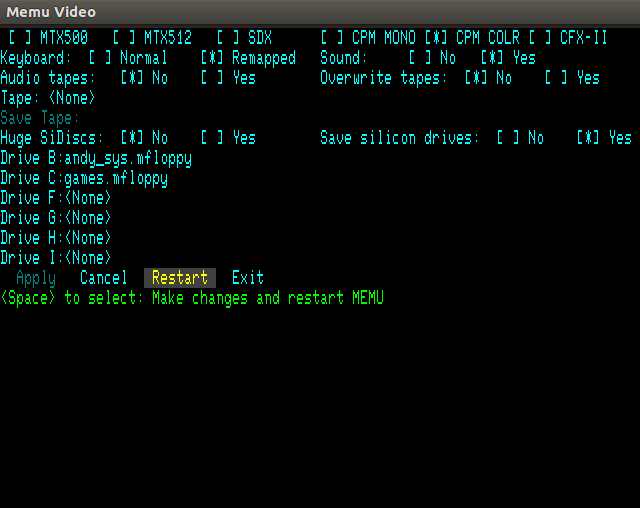
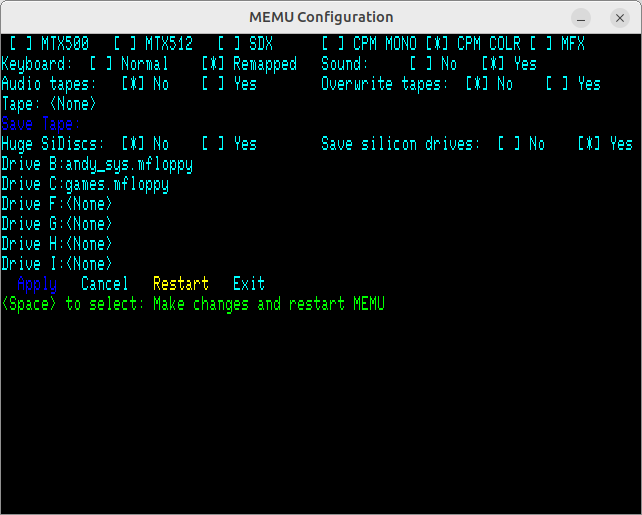
Documentation Updates

diff --git a/docs/index.html b/docs/index.html
@@ -54,14 +54,17 @@
       <li>Raspberry Pi Pico: This has the main features of MEMU, but size constraints
         require omitting some features. Each display is shown full screen.</li>
       <li>Linux X-Window: This uses multiple GUI windows to display Memotech screens and
-        dialogs.</li>
+        dialogs. <span class="todo">(TODO: Produce a version that supports Wayland.)</span></li>
       <li>Linux Framebuffer: This does not require a GUI. Instead each display is shown
         full-screen and it is necessary to toggle between screens.</li>
       <li>Raspberry Pi: Although the Linux versions run perfectly well on Raspberry Pi,
         this version uses the GPU for display updating, and can use the GPIOs to interface
-        to real hardware.</li>
+        to real hardware. <span class="todo">(TODO: The GPU access used is not supported by
+        recent versions of Raspberry Pi OS. Produce an X-Window version with GPIO support.)</span></li>
       <li>Bare Metal Pi: Uses the <a href="https://github.com/rsta2/circle">Circle</a>
-        library to produce versions of MEMU that run bare-metal on a Raspberry Pi.</li>
+        library to produce versions of MEMU that run bare-metal on a Raspberry Pi.
+        <span class="todo">(TODO: This is using an old version of Circle that does not support
+          all Raspberry Pi versions. Update or abandon?)</span></li>
       <li>Microsoft Windows: Does not have DART or Network emulation.</li>
     </ul>
     <p>The full (Linux) version of MEMU provides just about complete emulation of the
@@ -79,11 +82,12 @@
     </ul>
     <p>It provides emulation of some modern hardware add-ons:</p>
     <ul>
-      <li><a href="http://primrosebank.net/computers/mtx/projects/bb80col/bb80col.htm">
-          Enhanced 80-column display</a> using Parallax Propeller chip</li>
+      <li><a href="http://www.primrosebank.net/computers/mtx/projects/mfx/mfx_usage.htm">
+          MFX - Multi-Function eXpansion</a> providing SD card storage, VGA 80-column and
+        VDP display (using an FPGA), ROM BASIC enhancements.</li>
       <li><a href="http://primrosebank.net/computers/mtx/projects/sfx/cfxii.htm">
-          CFX-II</a> providing Compact Flash storage, Propeller 80-column display,
-        ROM BASIC enhancements</li>
+          CFX-II</a> providing Compact Flash storage, Propeller VGA 80-column and VDP display
+        (using Parallax Propeller chip), ROM BASIC enhancements</li>
       <li><a href="http://primrosebank.net/computers/mtx/projects/nfx/nfx.htm">
           NFX</a> network interface based upon a Wiznet W5100 chip</li>
     </ul>
@@ -220,7 +224,7 @@
           <li>If the line &quot;dtoverlay=vc4-kms-v3d&quot; is present, comment it out.</li>
           <li>Insert the line &quot;dtoverlay=vc4-<b>f</b>kms-v3d&quot;
         </ul>
-        <p>TODO - Produce a version which works with the KMS driver.</p>
+        <p class="todo">TODO: Produce a version which works with the KMS driver.</p>
       </li>
       <li><p>The display must be connected to one of the outputs controlled by the VideoCore
           (e.g. HDMI), and the keyboard attached to a USB port. This version will not work
@@ -310,7 +314,7 @@
       <li>The "Applications" or "Menu" key.</li>
       <li>The &lt;F11&gt; key.</li>
     </ul>
-    <img class="centre" src="Config_Screen.png" alt="Configuration Screen">
+    <img class="centre" src="MEMU_Configuration_Dialog.png" alt="Configuration Screen">
     <p>Use the arrow keys to navigate the options and either &lt;space&gt; or &lt;Enter&gt; to
       select an option. The &lt;Esc&gt; key can be used to exit sub-menus.</p>
     <p>The top row of the screen is used to select the basic emulation mode:</p>
@@ -327,9 +331,15 @@
       <dt>CPM COLR</dt>
       <dd>576K RAM, CP/M & ROM BASIC, 40 column VDP display, 80 column colour display,
         Two type07 disk drives, Four Silicon Drives (optional)</dd>
-      <dt>CFX-II (Not Pico)</dt>
+      <dt>MFX</dt>
       <dd>576K RAM, CP/M & ROM BASIC, 40 column VDP display, 80 column VGA display,
-        Two Compact Flash drives (up to 8 partitions each), Four Silicon Drives (optional)</dd>
+        SD Card emulation (up to 8 CPM drive images), Four Silicon Drives (optional).
+        <br/>Note: This does not include emulation of the WizNet network interface on the
+        real MFX card. The windows version of MEMU cannot currently emulate this. While
+        the Linux version can emulate the WizNet, either the program would need to be
+        run as root to be able to open the ports for FTP or HTTP, or the port numbers
+        would need to be re-mapped to high (unprivilaged) values. Command line switches
+        may be ussed to enable this emulation for the Linux version.</dd>
     </dl>
     <p>The body of the screen is used to provide details:</p>
     <dl>
@@ -389,6 +399,8 @@
           <ul>
             <li><a href="http://www.nyangau.org/diskimages/diskimages.htm">Andy Key's
                 disk images</a></li>
+            <li><a href="http://www.primrosebank.net/computers/mtx/projects/mfx/mfx_usage.htm">
+                SD card images for MFX emulation</a> (near bottom of page).</li>
           </ul>
         </li>
       </ul>
@@ -405,8 +417,8 @@
          alt="CP/M Colour Selected, Keyboard: Remapped, Sound: Yes, Files for floppy drives B and C selected">
 
     <h3 id="Usage-DiskImages">Disk Images</h3>
-    <p>MEMU is not able to directly access files stored on the SD card. Instead the files on
-      the SD card are binary copies of the contents of CP/M disks. To access the CP/M files on
+    <p>MEMU is not able to directly access files stored by the operating system. Instead the program reads files
+      that are are binary copies of the contents of CP/M disks. To access the CP/M files on
       a modern PC you need to use a program which understands the CP/M disk format.</p>
     <p>The traditional set of programs for that is <a href="http://www.moria.de/~michael/cpmtools/">cpmtools</a>.
       For most Linux distributions they can be installed using the distribution's package manager.
@@ -420,9 +432,9 @@
       <li><b>memotech-type18</b> - The 8MB format used for silicon disks and modern CF or SD
         storage expansions for the Memotech.</li>
     </ul>
-    <p>Cpmtools are traditional command line utilities. To make the CP/M images more accessible on modern
-      machines, Andy has also developed software whicch enables the CP/M image to be mounted and accessed
-      using standard GUI file managers. These are:</p>
+    <p>Cpmtools are traditional command line utilities. To make the CP/M images more accessible
+      on modern machines, Andy has also developed software whicch enables the CP/M image to be
+      mounted and accessed using standard GUI file managers. These are:</p>
     <ul>
       <li>For Microsoft Windows - <a href="http://www.nyangau.org/cpmcbfs/cpmcbfs.htm">CP/M Callback Filesystem</a>.</li>
       <li>For Linux - <a href="http://www.nyangau.org/cpmfuse/cpmfuse.htm">CP/M Filesystem in userspace</a>.</li>
@@ -430,7 +442,13 @@
     <p>An empty disk image can be preduced by creating an empty file, mounting it as a disk
       in MEMU, then using one of the Memotech utilities to format the drive. Once formatted,
       close MEMU and use one of the above tools to copy files into the image.</p>
-    
+    <p>For the real CFX-II or MFX interfaces, the CF or SD media can store up to eight
+      images of 8MB CP/M disks. With MEMU, eight separate image files may be specified, one
+      for each of the 8MB CP/M disks. Alternately, a single large file containing a complete
+      image of the storage media may be given as the first file name. The media image may
+      optionally include data for HexTrain beyond the CP/M disk images, and / or include an
+      MBR partition table. With Linux it is even possible to specify a media device containing
+      physical media from a Memotech</p>
     <h3 id="Usage-Advanced">Advanced Usage</h3>
     <p>MEMU configuration is controlled by a large number of option flags or switches. These
       may be either in configuration files or specified on the command line.</p>
@@ -522,38 +540,23 @@
       <dd>specify tracks of second drive (default 80)</dd>
       <dt>-prn-file file</dt>
       <dd>specify file to receive printer output</dd>
-      <dt>file.mtx</dt>
-      <dd>subsequent LOAD/SAVE/VERIFY "" will use this file</dd>
-    </dl>
-    <p>The following options only have any effect for resizeable windows (X-Window or
-      Microsoft Windows):</p>
-    <dl>
-      <dt>-vid-win-big,-v</dt>
-      <dd>Increase the size of the VDP window. Repeat to further enlarge.</dd>
-      <dt>-vid-win-max</dt>
-      <dd>VDP window the largest size that will fit on the screen.</dd>
-      <dt>-mon-win-big,-mw</dt>
-      <dd>Increase the size of the 80-column display. Repeat to further enlarge.</dd>
-      <dt>-mon-size</dt>
-      <dd>Sets the size of the 80-column display (but does not enable it).</dd>
-      <dt>-mon-win-max</dt>
-      <dd>Maximises the size of the 80-column display (but does not enable it).</dd>
-      <dt>-vid-win-title</dt>
-      <dd>set title for VDP window</dd>
-      <dt>-vid-win-display</dt>
-      <dd>set display to use for VDP window</dd>
-      <dt>-mon-win-title</dt>
-      <dd>set title for 80 column window</dd>
-      <dt>-mon-win-display</dt>
-      <dd>set display to use for 80 column window</dd>
       <dt>-speed hz</dt>
       <dd>set CPU speed (default is 4000000, ie: 4MHz. Pico default: 4.8MHz)</dd>
+      <dt>file.mtx</dt>
+      <dd>subsequent LOAD/SAVE/VERIFY "" will use this file</dd>
     </dl>
     <p>The following options are supported on the Linux and Microsoft Windows versions:</p>
     <dl>
       <dt>-romX file</dt>
-      <dd>Load banked ROM X image from file</dd>
+      <dd>Load banked ROM X image from an 8MB file</dd>
+      <dt>-rompairX file</dt>
+      <dd>Load banked ROM X and ROM X+1 a 16MB file</dd>
+      <dt>-largerom selector file</dt>
+      <dd>Optionally load the system ROM (0-8K) and / or any of the banked ROMS (8-16K)
+        specified by the characters (S,0-7) in the selector string from a single 32KB file.</dd>
       <dt>-vid-win-hw-palette</dt>
+      <dt>-mfx</dt>
+      <dd>Show the emulated MFX display.</dd>
       <dd>Use an alternate palette for the emulation of the VDP display.</dd>
       <dt>-sidisc-huge</dt>
       <dd>enable Silicon Disk huge mode</dd>
@@ -567,6 +570,10 @@
       <dd>emulate Propeller VGA display (enabled by default for CFX-II)</dd>
       <dt>-cf-image c:p file</dt>
       <dd>specify data image for partition (p) on card (c)</dd>
+      <dt>-sd-type type</dt>
+      <dd>set the type of SD card to emulate (SDv1, SDv2, SDHC)</dd>
+      <dt>-sd-image p file</dt>
+      <dd>specify image for CP/M drive (p) on SD card</dd>
       <dt>-no-cfx2 rom_file</dt>
       <dd>Disable CFX-II emulation but remember the ROM image file name.</dd>
       <dt>-iobyte iobyte</dt>
@@ -628,6 +635,33 @@
       <dd>-cpm -iobyte 0x80 -addr 0x0100 -mem file.com</dd>
       <dt>file.run</dt>
       <dd>-iobyte 0x00 -addr 0xAAAA (from header)</dd>
+    </dl>
+    <p>The following options only have any effect for resizeable windows (X-Window or
+      Microsoft Windows):</p>
+    <dl>
+      <dt>-vid-win-big,-v</dt>
+      <dd>Increase the size of the VDP window. Repeat to further enlarge.</dd>
+      <dt>-vid-win-max</dt>
+      <dd>VDP window the largest size that will fit on the screen.</dd>
+      <dt>-mon-win-big,-mw</dt>
+      <dd>Increase the size of the 80-column display. Repeat to further enlarge.</dd>
+      <dt>-mon-size N</dt>
+      <dd>Sets the size of the 80-column display (but does not enable it).</dd>
+      <dt>-mon-win-max</dt>
+      <dd>Maximises the size of the 80-column display (but does not enable it).</dd>
+      <dt>-mfx-size</dt>
+      <dd>Sets the size of the MFX display. Negative values remember the size
+        without enabling the display.</dd>
+      <dt>-mfx-max</dt>
+      <dd>Show the emulated MFX display using a maximum size window.</dd>
+      <dt>-vid-win-title</dt>
+      <dd>set title for VDP window</dd>
+      <dt>-vid-win-display</dt>
+      <dd>set display to use for VDP window</dd>
+      <dt>-mon-win-title</dt>
+      <dd>set title for 80 column window</dd>
+      <dt>-mon-win-display</dt>
+      <dd>set display to use for 80 column window</dd>
     </dl>
     <p>The following options are currently for the Linux versions only:</p>
     <dl>

diff --git a/docs/memu.css b/docs/memu.css
@@ -35,3 +35,4 @@ dt {
     margin-top:16px;
 }
 dd { margin-left:75px; }
+.todo { color:red; }
